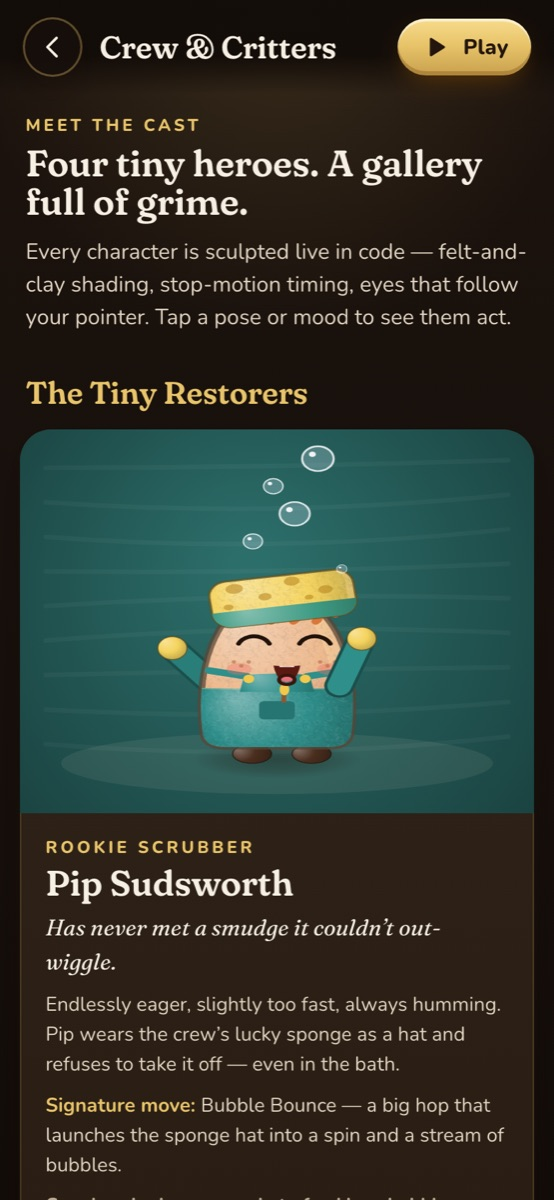
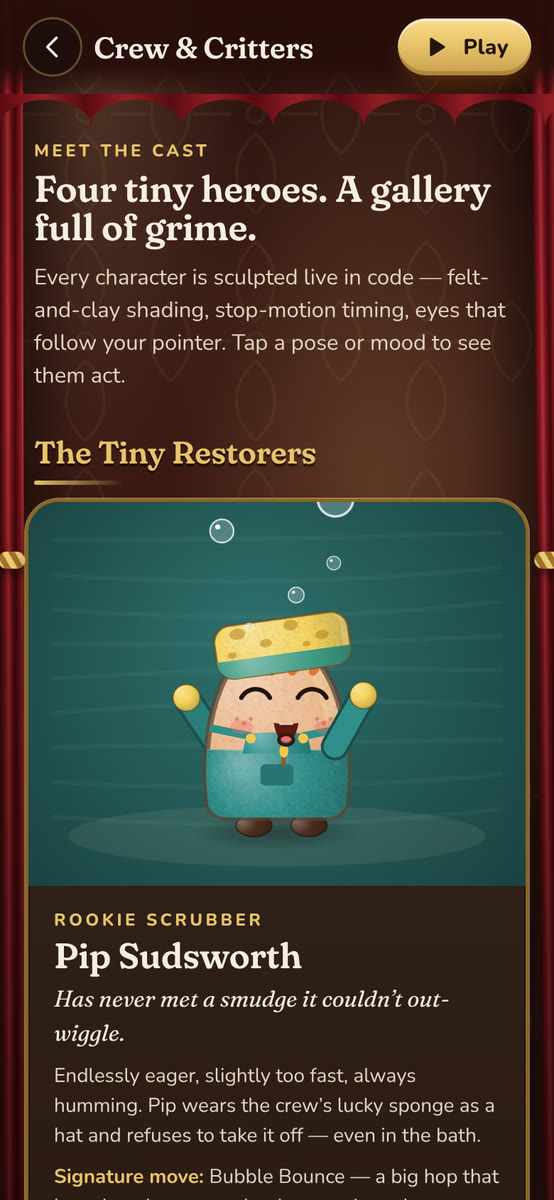
Refresh README, screenshots and status notes
- README: new Music & sound section (per-gallery arrangements, reactive
  layers, recorded foley, mix), sound bullet in the pitch, updated size,
  stack and test descriptions, CC0 audio credits and licence line
- Re-captured the Crew & Critters, Grimelings, boss fight and phone
  screenshots so they show the current visuals
- DEVELOPMENT_STATUS.md: dated entries for the visual polish and the
  audio rebuild, with what was verified and what is still open

Claude-Session: https://claude.ai/code/session_01WFu8JN2kL8e82D6aDLWmwK

diff --git a/README.md b/README.md
@@ -22,6 +22,7 @@ Masterpiece Mayhem drops you *into* ten of the most famous paintings ever made. 
 - **Feel it right away.** Your first scrub happens in under ten seconds. Your first "whoa" reveal arrives in under a minute.
 - **Stay for the variety.** This isn't 30 copies of "wipe the screen." You'll play varnish peels, crack-road logistics, Seurat colour-mixing puzzles, a lasso roundup, a bridge-building physics puzzle and a three-phase slime-king boss fight.
 - **Mistakes are fun, not fatal.** Over-scrub and the **Botch Meter** curses the painting with goofy temporary distortions. Laugh, fix it, keep going.
+- **Turn the sound on.** Every gallery has its own arrangement of the Tiny Restorers' theme, played on real recorded instruments, and every scrub, peel and pop sounds like the thing you're doing.
 
 ## Meet the cast
 
@@ -40,7 +41,7 @@ The crew and the critters were built to be the reason you click.
 
 **The Grimelings**: the troublemakers you'll love to evict.
 
-![The Grimelings: Smudge, Blotto and Crackle acting surprised, panicked and surrendering](screenshots/critters-desktop.jpg)
+![The Grimelings: Smudge the soot smudger, Blotto the ink stain and Crackle the craquelure critter on the Crew & Critters page](screenshots/critters-desktop.jpg)
 
 **Smudge** the soot smudger, **Blotto** the wobbly see-through ink stain, **Crackle** the craquelure critter, **Puffington** the sneezing dust puff, and their pompous ruler **King Gloopus**, who swallowed a paintbrush, a button and a crown and kept the crown. Plus Scorch, Nibs, Buzzby, Mossy and Glint, the one friendly sparkle you must *not* catch.
 
@@ -66,10 +67,32 @@ Every painting has three beats: the grimy overview, the hidden micro-world, and 
   <img src="screenshots/stage2-mobile.jpg" alt="Germ Town stage on a phone" width="260">
 </p>
 
+## Music & sound
+
+The score is original: one waltz theme for the Tiny Restorers, re-orchestrated for every room of the gallery.
+
+| Where | What you hear |
+|---|---|
+| Restoration desk (menu) | a wind-up music box: glockenspiel tines over a harp waltz, with the soft tick of the mechanism |
+| I · Discovery | pizzicato strings, cello bass, harp and glockenspiel |
+| II · Restoration Workshop | marimba with a flute answering above plucked strings |
+| III · Living Canvas | a dreamy flute over rippling harp arpeggios |
+| IV · Color Kingdom | a cheeky staccato bassoon with marimba bounce |
+| V · Impossible Gallery | clarinet over a parlour piano, horns swelling at the end |
+| King Gloopus | a minor-key villain march with cello ostinato and timpani |
+| The Final Touch | the theme slowed to a hymn, every instrument in |
+
+- **It grows as you restore.** Countermelodies and colour come in as the painting gets cleaner, and the "Restored!" moment resolves the tune with a harp glissando in key.
+- **Sound that follows your hand.** Scrubbing, peeling, spraying and flowing water are granular textures that get denser the harder you work. The vacuum motor spins up, and debris rattles up the hose.
+- **Recorded, not beeped.** Sponge squelches, page-peel crackle, wooden clacks, flexatone boings and coins come from real recordings, layered and varied so nothing repeats exactly. Chimes and stars play in the music's key, and the Grimelings chatter in little gibberish voices.
+- **Mixed like a room.** A gallery reverb that changes with each painting's mood, stereo placement where you touch, muffling when you zoom out, and music that ducks under the big moments.
+
+Everything is played live by the Web Audio API from 145 CC0 recordings (3.2 MB, loaded one gallery at a time). Credits are below.
+
 ## Built for everyone
 - **Mobile and desktop:** responsive portrait and landscape layouts, touch and mouse, with no accidental page scroll while you play.
 - **Accessible:** keyboard shortcuts (Esc/P pause, Z zoom, H hint, 1–9 tools), visible focus rings, ARIA labels, live objective updates, a reduced-motion mode and separate sound and music toggles.
-- **Lightweight:** Canvas 2D and plain DOM, with no game engine or framework runtime. About 105 KB of gzipped JS plus fonts and painting images.
+- **Lightweight:** Canvas 2D and plain DOM, with no game engine or framework runtime. About 122 KB of gzipped JS plus fonts, painting images and 3.2 MB of audio that loads per gallery.
 
 ## Run it locally
 
@@ -83,8 +106,8 @@ npm run preview      # serve dist/ on http://localhost:4173
 Handy URL flags while developing: `?stage=12` jumps to an unlocked stage, and `?qa` unlocks everything.
 
 ## Tech & tests
-- **Stack:** TypeScript, Vite, Canvas 2D, Web Audio. Fonts: Fraunces and Nunito (OFL).
-- **Unit tests (Vitest):** `npm test` covers truss physics, courier routing and the character cast registry.
+- **Stack:** TypeScript, Vite, Canvas 2D, Web Audio (sampled instruments, look-ahead music scheduler, generated room reverb). Fonts: Fraunces and Nunito (OFL).
+- **Unit tests (Vitest):** `npm test` runs 34 tests covering truss physics, courier routing, the character cast registry and the musical score (every arrangement stays in key and no sample is stretched more than a fifth from its recorded pitch).
 - **Browser smoke tests (Playwright):** `npx playwright install chromium` once, then `npm run test:e2e`. It builds the production bundle and checks the main menu (the cast paints and never overlaps the logo or a button, wiping the painting really removes grime, and Play and Settings route correctly), the Crew & Critters showcase, real scrub progress, and a full autoplayed stage-1 win, on both desktop and mobile viewports.
 - **Menu visual QA:** `node scripts/dbg/menu-shots.mjs <outdir> [baseUrl]` captures the menu at 1440×900, 1280×800, 390×844 and 375×667 and reports any character overlapping a control.
 - **Autoplay regression:** `node scripts/autoplay-all.mjs 1-30` runs the built-in QA solver on every stage against a running dev server (edit the base URL argument if your port differs).
@@ -95,7 +118,9 @@ Playable today, still being polished. See [DEVELOPMENT_STATUS.md](DEVELOPMENT_ST
 ## Art, credits & a friendly warning
 The ten paintings are public-domain works. The bundled images are downscaled copies of files marked *Public domain* on Wikimedia Commons; sources and caveats are in [ART_LICENSES.md](ART_LICENSES.md). Some museums restrict commercial use of photographs of their collections, so **a rights review is required before any commercial release.** The characters, grime, tools and UI are original art made for this project.
 
+The music and sound design are original too. The instrument and foley recordings they play are CC0: [Versilian Studios Chamber Orchestra 2 – Community Edition](https://github.com/sgossner/VSCO-2-CE) and [Kenney](https://kenney.nl)'s RPG and UI audio packs. Details are in [ART_LICENSES.md](ART_LICENSES.md).
+
 > 🧽 **This is a fantasy.** Nothing here is real conservation advice. Never scrub, peel, polish or spray a real painting. Leave that to trained conservators.
 
 ## License
-The source code is © 2026 manynames3, all rights reserved for now (no open-source licence has been chosen yet). Painting reproductions are public domain as described above. Fonts are under the SIL Open Font License.
+The source code is © 2026 manynames3, all rights reserved for now (no open-source licence has been chosen yet). Painting reproductions are public domain as described above. Audio recordings are CC0. Fonts are under the SIL Open Font License.

diff --git a/DEVELOPMENT_STATUS.md b/DEVELOPMENT_STATUS.md
@@ -1,4 +1,17 @@
-# Development status — 2026-10-25
+# Development status — 2026-11-13
+
+## Audio rebuild — 2026-11-12 (live in production, commit `91618ee`)
+- Replaced the synthesized beeps and random-note music with sampled instruments and recorded foley. Engine: `src/core/audio.ts`; score: `src/core/music.ts`; asset list with measured pitches: `src/core/audioAssets.ts`; files: `public/audio/` (145 CC0 recordings, 3.2 MB mono MP3, loaded per gallery). Sources are credited in `ART_LICENSES.md` and the in-game credits.
+- Music: one original 3/4 theme arranged for the menu, each of the five galleries, the King Gloopus fight (minor-key march) and the finale. Layers bloom with progress; win, big-win and fail cues resolve in key; stage ambience picks the room reverb.
+- SFX: layered recipes with random variation, tonal sounds in the music's key, granular work loops (scrub, peel, spray, flow) and a vacuum motor, formant voices for the Grimelings, stereo from the touch position, effects compression and density ducking.
+- Verified: 34 unit tests (new `tests/unit/music.test.ts`: every arrangement in key, no sample stretched beyond a fifth), 12/12 Playwright, build. Audio was recorded from headless Chromium: arrangements level-matched to about -25 LUFS (boss and finale about -23), busy gameplay -15 to -19 LUFS with no clipping, pitch content of each arrangement matches its key. Stages 1, 12 and 24 autoplayed to a win with the right arrangement and no errors.
+- Not verified: nobody on the team has listened on real phones yet. Decoded audio reaches roughly 30-45 MB of memory once every gallery has been visited, which is fine on current devices but heavy on old ones.
+
+## Visual polish — 2026-11-11
+- In-game HUD restyled as walnut panels with gilt trim; zoomed-in playfield framed in a gilt mat on a dark wall; custom SVG faces replace the emoji in the Botch meter, curse banner and results medal; tool labels wrap instead of truncating; tutorial card relaid out; map thumbnails, stars and scroll offset fixed; results card fits short screens and its "after" image is the clean painting.
+- Heroes drawn 1.4x larger in play with a soft spotlight (hit areas unchanged); frogs moved to the felt-and-clay material; Slime King gets an aura and amber target pustules; boat-runner water, courier and crack lines, algae, varnish film and pipe channels redrawn; Crew & Critters page uses the title screen's theatre hall.
+- README screenshots refreshed on 2026-11-13.
+
 
 ## Main menu redesign (Design #4) — 2026-10-25 afternoon
 - New gallery-hall main menu (`src/ui/title.ts`, `src/ui/menu/scene.ts`, `src/styles/menu.css`). Rationale, limitations and the visual QA log are in `menu-ui-notes.md`.
